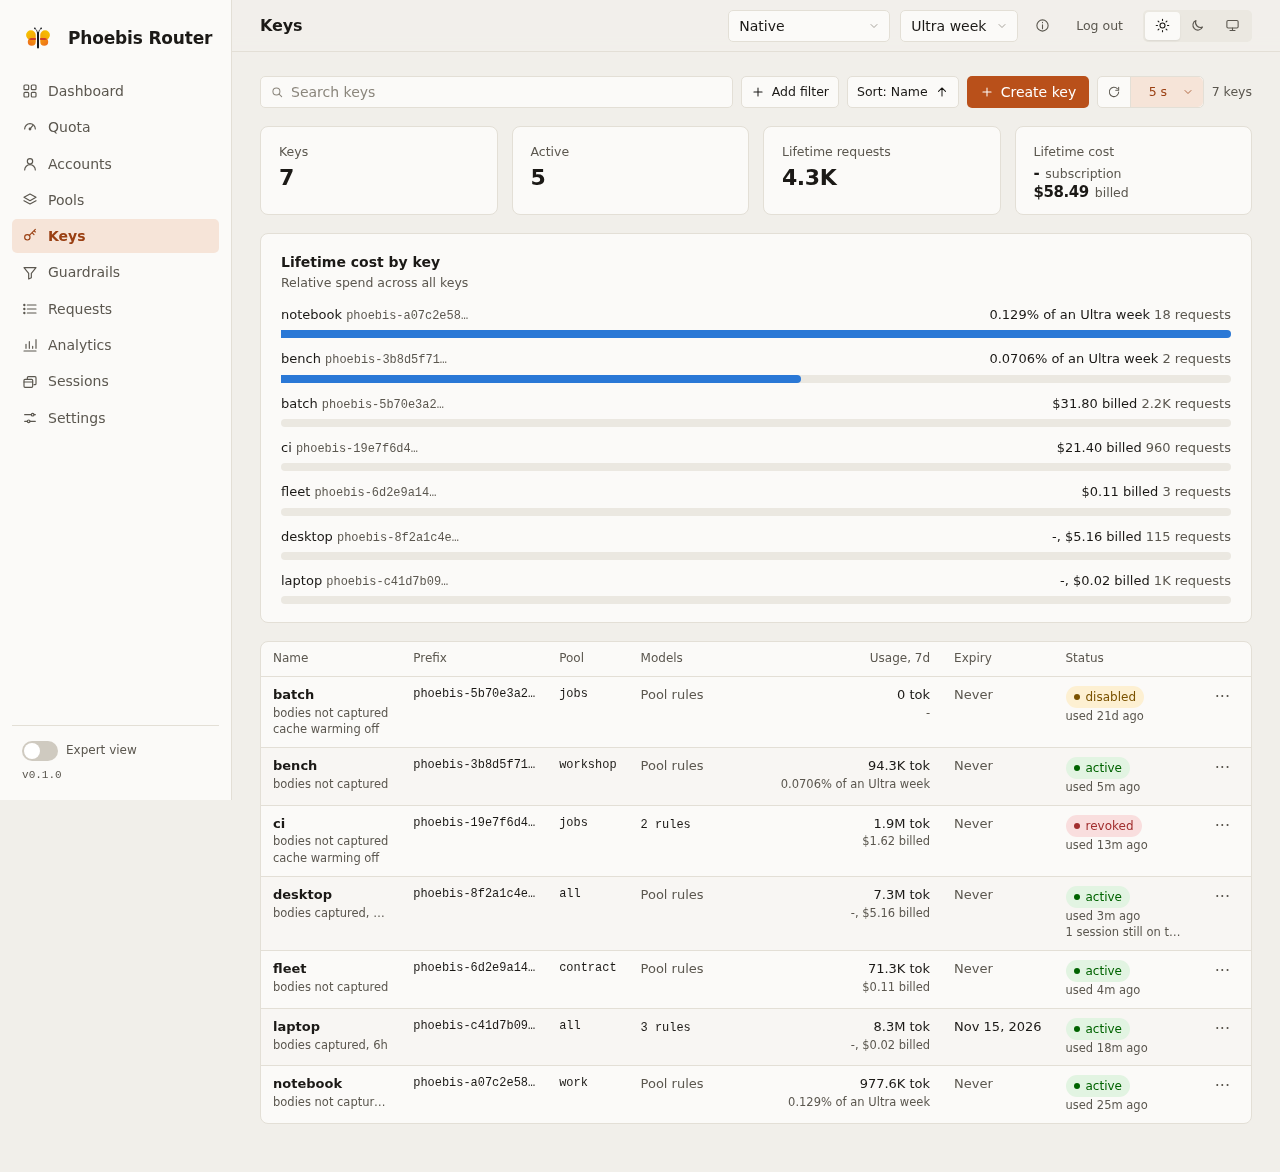
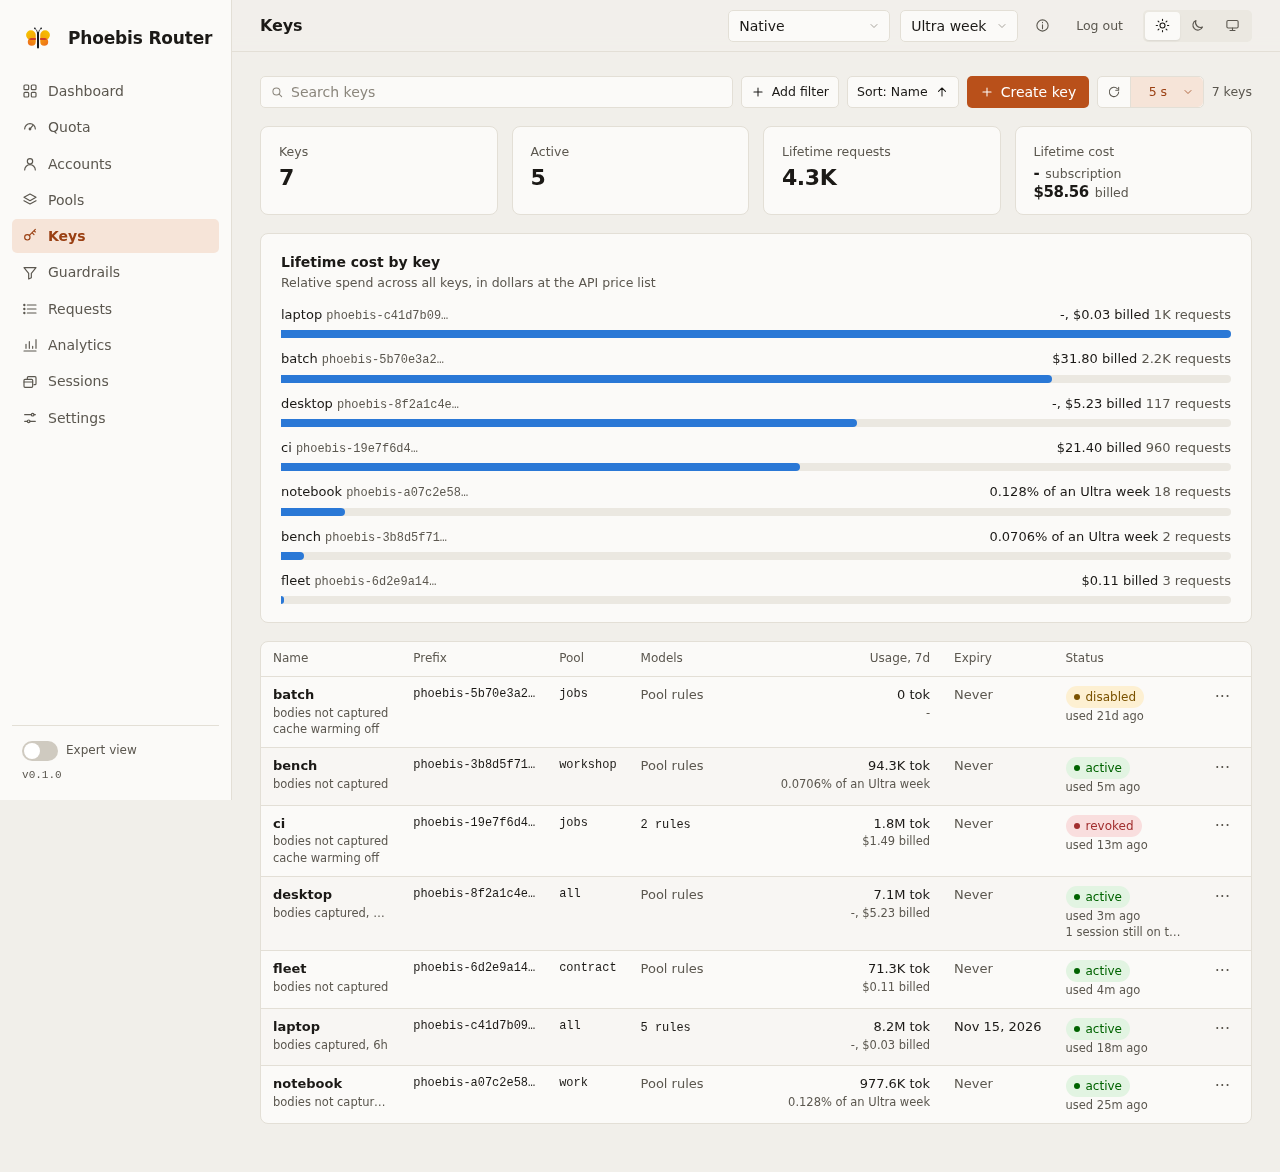
Count a billed probe's dollars whatever the probes toggle says
The routes add the dollars of a probe no plan paid for to the cost
and billed sums whatever the Include probes flag says, while its
requests and tokens keep following the flag. The mock sums the same
way in the breakdown and the series, the dashboard's day and hours,
a key's week and lifetime, and a pool's day and buckets.

A read that does not count probes keeps a group as the route does:
where a row that is no probe joined it, or where its billed probes
drew dollars. A group of plan probes alone leaves the answer. The smoke
no longer wraps the mock to drop each group of probes alone, since that
also dropped the groups of billed probes the route keeps.

Under a dollar position the Cost head adds that a billed probe's
dollars count while the toggle is off, outside a session view, whose
figure folds the request log and holds no probe. The Billed dollars
legend line names the billed keepalive probe.

The story's billed probes run on desktop and laptop, on the Overflow
workspace's API key and on nightly in overage. At the smoke's 14:30
they add $0.0689 to the day of pool all, of the dashboard and of the
Analytics range, $0.0606 to desktop's week and lifetime, $0.0083 to
laptop's and $0.0339 to nightly's range. At the suite's Sunday
instant one probe adds $0.0074 to laptop, pool all and the
dashboard. So the suite's checks of a key's week cost, a pool's day
cost and the dashboard's billed day read the route's rule in their
[…]

diff --git a/web/src/mock/requests.ts b/web/src/mock/requests.ts
@@ -2872,12 +2872,16 @@ function idleWarming(rows: RequestLog[]): HourlyRollup[] {
 // The idle warming sits before the logged hours, so the rows' last entry stays the current hour's.
 export const ALL_ROLLUPS: HourlyRollup[] = [...historicalRollups(), ...idleWarming(REQUESTS), ...ROLLUPS];
 
-const counted = (from: number) => REQUESTS.filter((r) => r.kind !== 'probe' && Date.parse(r.at) >= from);
-/** The rows the dashboard counts. A probe is the router's own traffic, which the routes leave out. */
-export const DAY_ROWS: RequestLog[] = counted(DAY_FROM);
-/** The rows an account's or a pool's day total counts, and a pool's hourly buckets. */
-const TOTAL_ROWS: RequestLog[] = counted(TOTALS_FROM);
+// A probe is the router's own traffic, which the routes count nowhere, but a billed probe draws real dollars, so the
+// day's and the totals' rows hold its row for the cost and billed sums alone, and every count over them skips it.
+const priced = (from: number) => REQUESTS.filter((r) => (r.kind !== 'probe' || !planPaid(r)) && Date.parse(r.at) >= from);
+/** The rows the dashboard reads. */
+export const DAY_ROWS: RequestLog[] = priced(DAY_FROM);
+/** The rows an account's or a pool's day total reads, and a pool's hourly buckets. */
+const TOTAL_ROWS: RequestLog[] = priced(TOTALS_FROM);
 const COUNTED_ROLLUPS = ALL_ROLLUPS.filter((r) => r.kind !== 'probe');
+/** The rollups a key's totals read, every row but a plan probe's. */
+const PRICED_ROLLUPS = ALL_ROLLUPS.filter((r) => r.kind !== 'probe' || r.funding !== 'plan');
 
 /** A sum over a list in its order. A declaration, since the rollups fold reads it while the module loads, above this
  *  line. */
@@ -2930,25 +2934,28 @@ function deriveFigures() {
     const mine = COUNTED_ROLLUPS.filter((r) => r.accountId === a.id);
     Object.assign(a, {
       requests: {
-        last24h: TOTAL_ROWS.filter((r) => r.accountId === a.id).length,
+        last24h: TOTAL_ROWS.filter((r) => r.accountId === a.id && r.kind !== 'probe').length,
         last7d: sumOf(mine.filter(inWeek), requestsIn),
         lifetime: Math.max(a.requests.lifetime, sumOf(mine, requestsIn)),
       },
     });
   }
   for (const k of keyById.values()) {
-    // A bare id totals its live key alone, so an earlier holder's rows count for neither figure.
-    const mine = COUNTED_ROLLUPS.filter((r) => r.keyId === k.id && r.keyGeneration === Date.parse(k.createdAt));
+    // A bare id totals its live key alone, so an earlier holder's rows count for neither figure. A billed probe's
+    // dollars join both dollar sums, and neither its requests nor its tokens count.
+    const mine = PRICED_ROLLUPS.filter((r) => r.keyId === k.id && r.keyGeneration === Date.parse(k.createdAt));
+    const counted = mine.filter((r) => r.kind !== 'probe');
     const week = mine.filter(inWeek);
+    const countedWeek = counted.filter(inWeek);
     const life = sidesOf(mine);
     Object.assign(k, {
       lifetime: {
         billedUsd: Math.max(k.lifetime.billedUsd, life.billedUsd),
         cost: Math.max(k.lifetime.cost, sumOf(mine, (r) => r.costUsd)),
         equivalent: k.lifetime.equivalent === null || life.equivalent === null ? null : Math.max(k.lifetime.equivalent, life.equivalent),
-        requests: Math.max(k.lifetime.requests, sumOf(mine, requestsIn)),
+        requests: Math.max(k.lifetime.requests, sumOf(counted, requestsIn)),
       },
-      usage7d: { ...sidesOf(week), cost: sumOf(week, (r) => r.costUsd), requests: sumOf(week, requestsIn), tokens: sumOf(week, tokensIn) },
+      usage7d: { ...sidesOf(week), cost: sumOf(week, (r) => r.costUsd), requests: sumOf(countedWeek, requestsIn), tokens: sumOf(countedWeek, tokensIn) },
     });
   }
   for (const p of poolById.values()) {
@@ -2962,12 +2969,13 @@ function deriveFigures() {
     for (const r of mine) {
       const bucket = traffic24h[Math.floor((Date.parse(r.at) - TOTALS_FROM) / HOUR)];
       bucket.costUsd += r.costUsd;
+      if (r.kind === 'probe') continue;
       bucket.failed += r.outcome === 'succeeded' ? 0 : 1;
       bucket.requests += 1;
       bucket.tokens += tokensTotal(r.usage);
     }
     const day = requestSidesOf(mine);
-    Object.assign(p, { day24h: { billedUsd: day.billedUsd, cost: sumOf(mine, (r) => r.costUsd), equivalent: day.equivalent }, requests24h: mine.length, traffic24h });
+    Object.assign(p, { day24h: { billedUsd: day.billedUsd, cost: sumOf(mine, (r) => r.costUsd), equivalent: day.equivalent }, requests24h: mine.filter((r) => r.kind !== 'probe').length, traffic24h });
   }
 }
 

diff --git a/web/src/mock/analytics.ts b/web/src/mock/analytics.ts
@@ -294,19 +294,22 @@ const ZERO_TOKENS: HourlyRollup['tokens'] = { cacheRead: 0, cacheWrite1h: 0, cac
 
 /**
  * Two sums per group, the way the route splits them: the request side, which a probe row joins only when probes
- * count as requests, and the probe rows alone, which the probe counts, the probe cost and the wasted probes read.
- * The shares are a subscription account's with a tier, under the account grouping or where the query names that one
- * account, and null otherwise. The equivalents, the billed side and the plan counts read under every grouping.
+ * count as requests, and the probe rows alone, which the probe counts, the probe cost and the wasted probes read. A
+ * billed probe draws real dollars, so they join the cost and billed sums whatever the flag says, while its request and
+ * its tokens follow the flag. The shares are a subscription account's with a tier, under the account grouping or where
+ * the query names that one account, and null otherwise. The equivalents, the billed side and the plan counts read
+ * under every grouping.
  */
 function groupOf(key: string, label: string, rows: HourlyRollup[], includeProbes: boolean, groupBy: AnalyticsGroupBy, accountIds: string[] | undefined): AnalyticsGroup {
   const counted = includeProbes ? rows : rows.filter((r) => r.kind !== 'probe');
+  const priced = includeProbes ? rows : rows.filter((r) => r.kind !== 'probe' || r.funding !== 'plan');
   const probeRows = rows.filter((r) => r.kind === 'probe');
   const account = shareAccountOf(key, groupBy, accountIds);
   const tier = account === null ? undefined : accountById.get(account)?.subscription?.rateLimitTier;
   const countedPlan = planRows(counted);
   const probePlan = planRows(probeRows);
   const costShares = account !== null && accountById.get(account)?.kind === 'oauth' && tier !== undefined ? costSharesOf(countedPlan) : null;
-  const billed = counted.filter((r) => r.funding !== 'plan');
+  const billed = priced.filter((r) => r.funding !== 'plan');
 
   const cacheMissReasons = emptyCacheMissReasons();
   // Every name a row carries, as the ledger rolls up whatever the beta sent, not only the ones the console knows.
@@ -346,9 +349,9 @@ function groupOf(key: string, label: string, rows: HourlyRollup[], includeProbes
     cacheHits: sumOf(counted, (r) => r.cacheHits),
     cacheMisses: sumOf(counted, (r) => r.cacheMisses),
     cacheMissReasons,
-    cost: sumSplit(counted.map((r) => r.cost)),
+    cost: sumSplit(priced.map((r) => r.cost)),
     costShares,
-    costUsd: sumOf(counted, (r) => r.costUsd),
+    costUsd: sumOf(priced, (r) => r.costUsd),
     errors,
     // The fixture ledger records no exhausted pool, and its refused requests file under the refusals map and never
     // under Rejected.
@@ -423,10 +426,21 @@ const holderOf = (key: string, groupBy: AnalyticsGroupBy): Pick<AnalyticsGroup, 
 const groupKeyOf = (groupBy: AnalyticsGroupBy, named: string[]): ((r: HourlyRollup) => string) =>
   groupBy === 'user_agent' && named.length ? (r) => named.find((p) => matchesPattern(p, r.userAgent)) ?? 'other' : GROUP_KEY[groupBy];
 
+/**
+ * A group stays where probes count, where a row that is no probe joined it, or where its billed probes drew dollars,
+ * as the route keeps one: a read that does not count probes drops a group of plan probes alone, and answers a group of
+ * billed probes alone with its dollars and no request.
+ */
 function groupsOf(rows: HourlyRollup[], q: AnalyticsQuery): AnalyticsGroup[] {
   const of = groupKeyOf(q.groupBy, q.userAgentGroups ?? []);
   const buckets = groupInto(rows, of);
-  return [...buckets.entries()].map(([key, list]) => ({ ...groupOf(key, labelOf(key, q.groupBy), list, q.includeProbes ?? false, q.groupBy, q.accountIds), ...holderOf(key, q.groupBy) })).sort((a, b) => a.label.localeCompare(b.label) || (a.keyCreatedAt ?? 0) - (b.keyCreatedAt ?? 0) || a.key.localeCompare(b.key));
+  const includeProbes = q.includeProbes ?? false;
+  return [...buckets.entries()]
+    .flatMap(([key, list]) => {
+      const group = groupOf(key, labelOf(key, q.groupBy), list, includeProbes, q.groupBy, q.accountIds);
+      return includeProbes || list.some((r) => r.kind !== 'probe') || group.billedUsd > 0 ? [{ ...group, ...holderOf(key, q.groupBy) }] : [];
+    })
+    .sort((a, b) => a.label.localeCompare(b.label) || (a.keyCreatedAt ?? 0) - (b.keyCreatedAt ?? 0) || a.key.localeCompare(b.key));
 }
 
 export function breakdownOf(rows: HourlyRollup[], q: AnalyticsQuery): AnalyticsGroup[] {

diff --git a/web/src/lib/analytics.ts b/web/src/lib/analytics.ts
@@ -484,6 +484,9 @@ export function unpricedNote(labels: readonly string[], buckets: number): string
   const named = labels.length > 3 ? `${fmtInt(labels.length)} groups` : labels.join(' · ');
   return `${named} unpriced in ${plural(buckets, 'bucket, drawn as a gap', 'buckets, drawn as gaps')}`;
 }
+/** The Cost head's sentence above a figure of the routes' sums while the Include probes toggle is off: the routes add a
+ *  billed probe's dollars to the cost and billed sums whatever the flag says. */
+export const BILLED_PROBE_NOTE = "A billed probe's dollars count whatever the Include probes toggle says";
 /** The Cost section's head under a position, as `costHeadOf` reads it. */
 export interface CostHead {
   meta: string;
@@ -499,9 +502,10 @@ export interface CostHead {
  * The Cost section's meta line, its first tile and the requests its table reads, from the position's totals. Native
  * pairs the plan rows' figure in the chosen week with the billed dollars, a side with no rows left out and a dash
  * where the route priced none. It waits on `scale`, so null answers native while the scale is out, which the section
- * draws as its skeleton. A dollar position reads its dollars under its own words, and reads no scale.
+ * draws as its skeleton. A dollar position reads its dollars under its own words, and reads no scale. `billedProbeNote`
+ * says the figure is the routes' sums read with probes off, so a dollar position's meta closes on `BILLED_PROBE_NOTE`.
  */
-export function costHeadOf(unit: UnitPosition, totals: AnalyticsGroup, week: WeekPosition, scale: number | null): CostHead | null {
+export function costHeadOf(unit: UnitPosition, totals: AnalyticsGroup, week: WeekPosition, scale: number | null, billedProbeNote: boolean): CostHead | null {
   if (unit === 'native') {
     if (scale === null) return null;
     const { figures, unpriced } = nativeFiguresOf(sidesOf(totals), week, scale);
@@ -509,7 +513,7 @@ export function costHeadOf(unit: UnitPosition, totals: AnalyticsGroup, week: Wee
   }
   const dollars = dollarsOf(unit);
   const figure = fmtUsd(totals.costUsd);
-  return { meta: `${figure} in range, ${UNIT_META[dollars]}`, subset: UNIT_SUBSET[dollars], tile: { figures: [{ text: figure }], label: UNIT_TILE_LABEL[dollars], note: dollars === 'all' ? 'at the effective price list' : UNIT_SUBSET[dollars] }, unpriced: false };
+  return { meta: `${figure} in range, ${UNIT_META[dollars]}${billedProbeNote ? `. ${BILLED_PROBE_NOTE}` : ''}`, subset: UNIT_SUBSET[dollars], tile: { figures: [{ text: figure }], label: UNIT_TILE_LABEL[dollars], note: dollars === 'all' ? 'at the effective price list' : UNIT_SUBSET[dollars] }, unpriced: false };
 }
 
 /**

diff --git a/web/src/pages/AnalyticsPage.tsx b/web/src/pages/AnalyticsPage.tsx
@@ -430,11 +430,12 @@ export function AnalyticsPage() {
   const fundedTab = tab === 'cache' || tab === 'cache-warming' || tab === 'cost';
   const funded = sessionId === null && (unit === 'usd' || unit === 'equivalent');
   const costSeries = useGatedRead(funded && fundedTab, () => stamped(api.getAnalyticsSeries({ ...query, funding }), clock.now()), [query, funding, funded, fundedTab, generation], reload);
-  // The Cache warming card's Probe cost tile is the one reader of this breakdown on its tab, and it reads the probe
-  // rows counted under every position, the whole included: a breakdown that does not count probes drops a group left
-  // with probe rows alone, whether a dollar side dropped the group's real rows or the group is probe-only in the whole
-  // (the probe kind, an idle account over a short range), and the three positions add up only when all three keep it.
-  // Under the whole the read carries no funding.
+  // The Cache warming card's Probe cost tile and the Probes by outcome legend read this breakdown on its tab, and they
+  // read the probe rows counted under every position, the whole included: a breakdown that does not count probes drops
+  // a group of plan probes alone and keeps a billed probe's dollars, even in a group with no request, whether a dollar
+  // side dropped the group's real rows or the group is probe-only in the whole (the probe kind, an idle account over a
+  // short range), and the three positions add up only when all three keep it. Under the whole the read carries no
+  // funding.
   const warming = sessionId === null && tab === 'cache-warming';
   const costBreakdown = useGatedRead(
     (funded && fundedTab) || warming,
@@ -580,7 +581,9 @@ export function AnalyticsPage() {
   }, [sessionId, funding, funded, warming, groups, stale, fundedTab, kept, groupBy, agentGroups, latest, costBreakdownAnswer]);
   const costBuckets = useMemo(() => (costPoints === points ? buckets : bucketsOf(costPoints)), [costPoints, points, buckets]);
   const costTotals = useMemo(() => totalsOf(costGroups), [costGroups]);
-  const costHead = costHeadOf(unit, costTotals, week, scale);
+  // A session view folds the request log, which the page reads with the toggle, so its figure holds no probe while the
+  // toggle is off.
+  const costHead = costHeadOf(unit, costTotals, week, scale, !includeProbes && sessionId === null);
   const nativeRatios = scale === null ? null : nativeRatiosOf(costTotals, week, scale);
   // A session fold has no cost split either, so the donut and the cache cost card read unavailable in a session view.
   const costSplit = knownSplit(costTotals.cost);

diff --git a/web/src/mock/index.ts b/web/src/mock/index.ts
@@ -1210,7 +1210,7 @@ export class MockApi implements Api {
     let cost = 0;
     const errorCodes = new Map<string, number>();
     const refusalCodes = new Map<string, number>();
-    const rated = last24h.filter((r) => !r.refused);
+    const rated = last24h.filter((r) => !r.refused && r.kind !== 'probe');
     for (const r of last24h) {
       const bucket = hourlyMap.get(startOfHour(Date.parse(r.at)));
       // The ledger's fold books a refused request under its refusals map and nothing else.
@@ -1219,15 +1219,17 @@ export class MockApi implements Api {
         if (bucket) bucket.refused += 1;
         continue;
       }
+      cost += r.costUsd;
+      if (bucket) bucket.cost += r.costUsd;
+      // The day's rows hold a billed probe for its dollars, and nothing else of it counts.
+      if (r.kind === 'probe') continue;
       const total = tokensTotal(r.usage);
       tokens += total;
       cached += r.usage.cacheRead;
-      cost += r.costUsd;
       if (r.errorCode) errorCodes.set(r.errorCode, (errorCodes.get(r.errorCode) ?? 0) + 1);
       if (bucket) {
         bucket.requests += 1;
         bucket.tokens += total;
-        bucket.cost += r.costUsd;
         // The ledger's rate: a request that did not succeed is an error, a canceled one answered with a 200 among them.
         if (r.outcome !== 'succeeded') bucket.errors += 1;
       }
@@ -1241,7 +1243,7 @@ export class MockApi implements Api {
       day24h: { billedUsd: day.billedUsd, cost, equivalent: day.equivalent },
       errorRate24h: rated.length ? rated.filter((r) => r.outcome !== 'succeeded').length / rated.length : null,
       hourly: [...hourlyMap.values()],
-      refused24h: last24h.length - rated.length,
+      refused24h: last24h.filter((r) => r.refused).length,
       requests24h: rated.length,
       tokens24h: tokens,
       tokensCached24h: cached,

diff --git a/web/src/lib/unit.ts b/web/src/lib/unit.ts
@@ -20,7 +20,7 @@ export const UNIT_LEGEND: Record<UnitPosition, string> = {
   all: 'Every request in dollars at the API price list, a subscription request at its dollar equivalent.',
   equivalent: 'The subscription requests alone at the API price list.',
   native: 'Each request in the unit its funding pays in: a subscription request as a share of the week the week control names, an API key, fast-mode, overage or usage-based request in dollars.',
-  usd: 'The API key, fast-mode, overage and usage-based requests alone, the dollars the account holder is charged.',
+  usd: "The API key, fast-mode, overage and usage-based requests alone, the dollars the account holder is charged, a billed keepalive probe's among them.",
 };
 /**
  * The legend's closing paragraph. The figure is a share of the Pro week whatever the account tier, and the week
